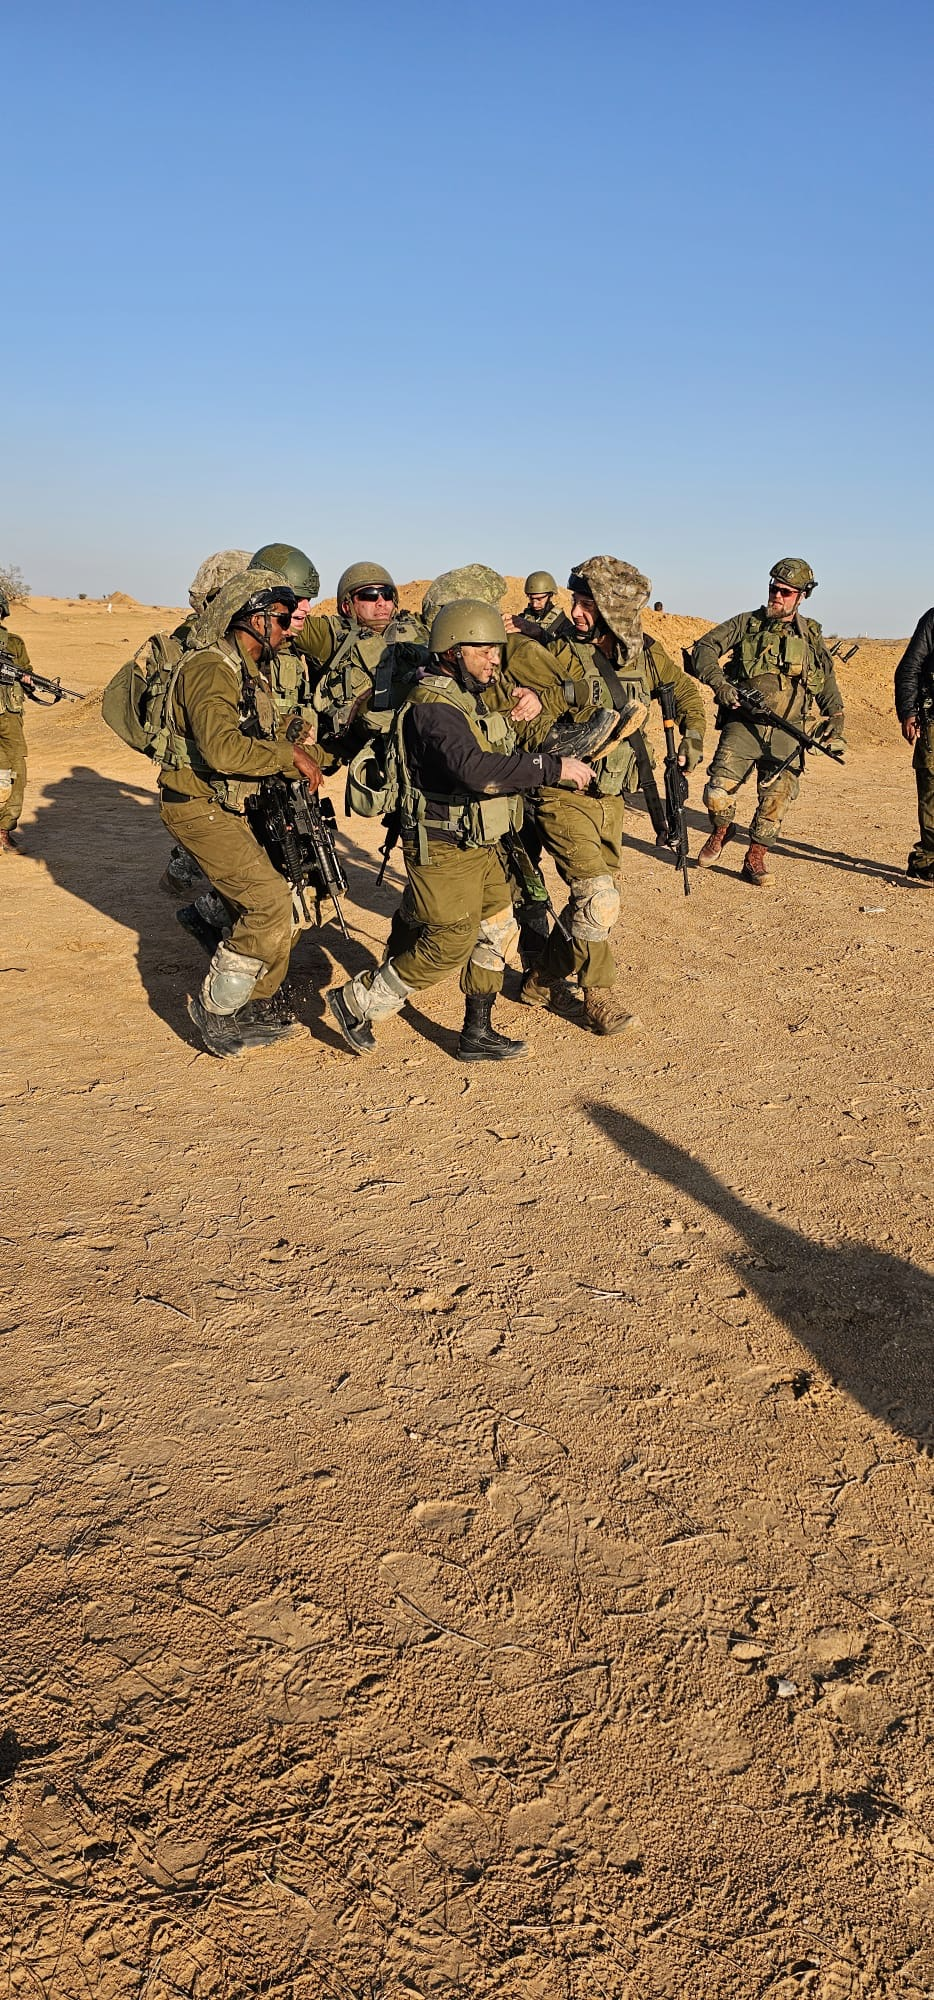
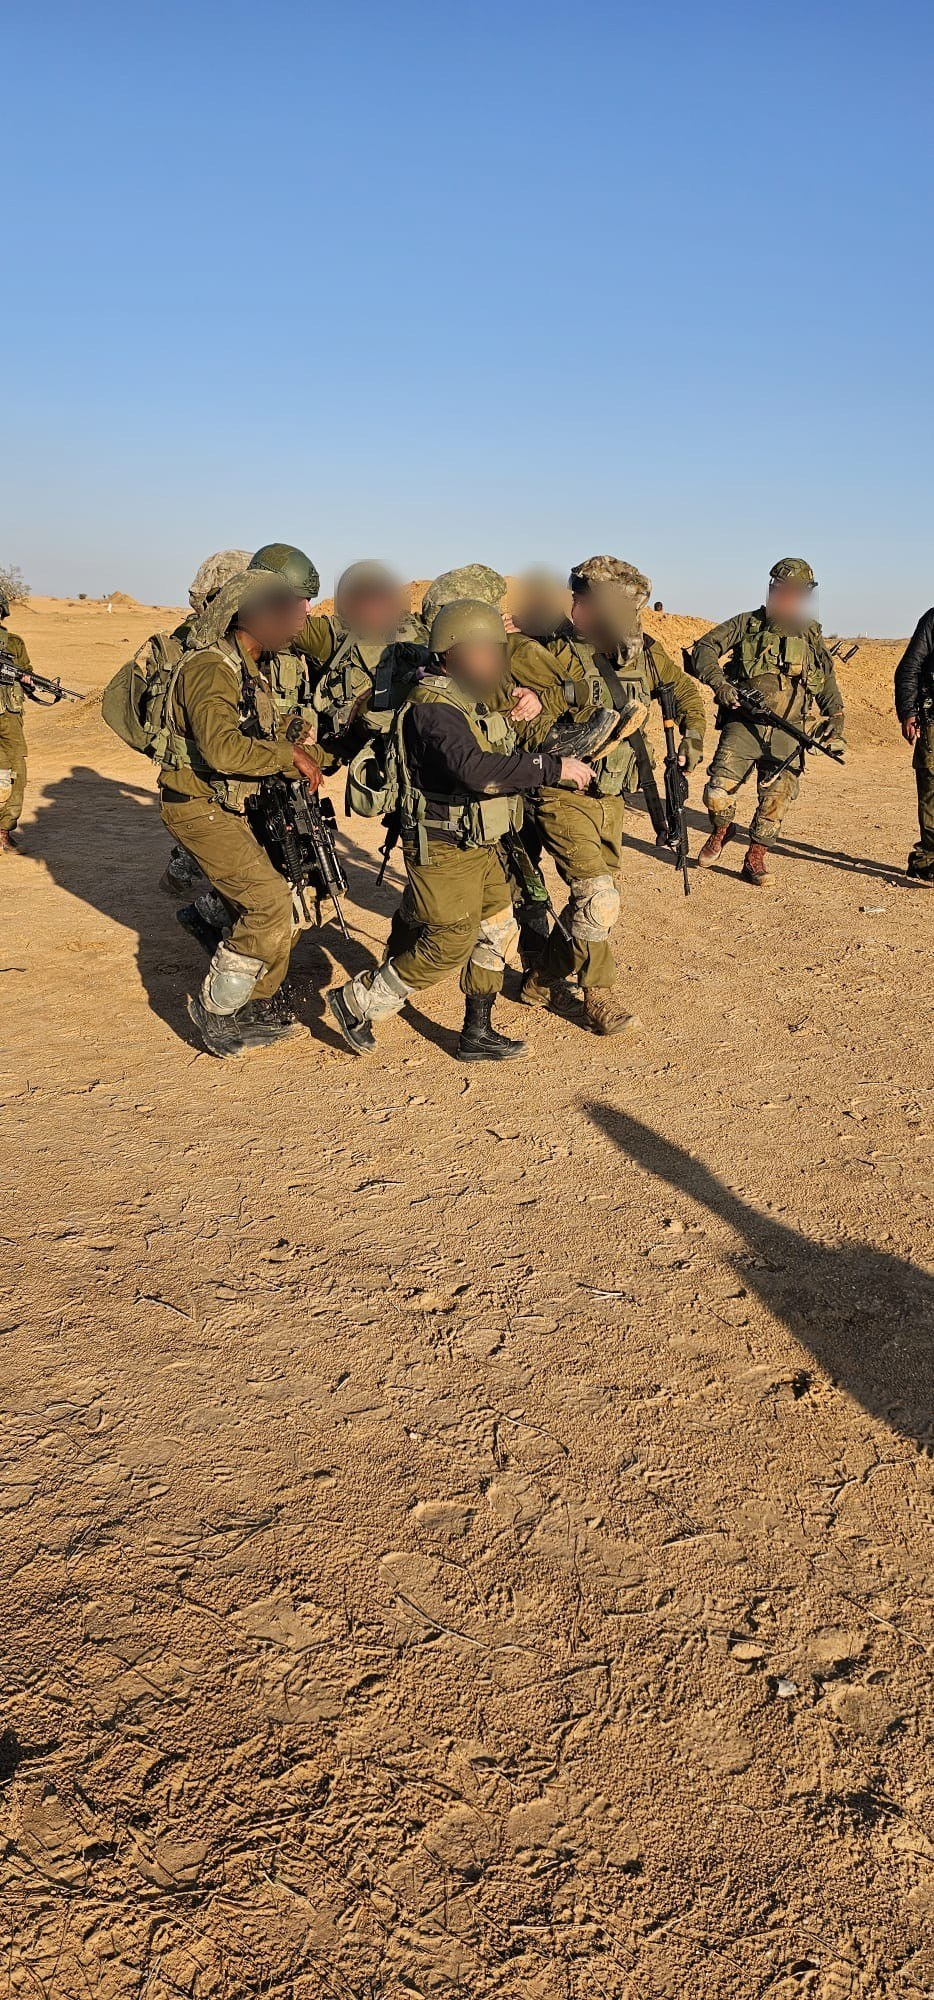
Blur soldiers' faces, use each photo once, add valley band
- Faces blurred (soft, feathered) in the hero photo and the new crowd photo; originals never committed
- ae00d74b hero file replaced with the blurred version (also the og:image)
- Hero uses the squad photo, About uses the crowd photo, footer uses a faceless valley panorama
- Remove duplicate crops and the gear/footer photo repeats

Claude-Session: https://claude.ai/code/session_0132FAEbQkSFtGSTPxd9kUNA

Changed region(s): [[0.4657, 0.279, 0.6831, 0.372], [0.2484, 0.279, 0.4347, 0.341], [0.8073, 0.279, 0.8694, 0.341]]

diff --git a/index.html b/index.html
@@ -64,7 +64,7 @@
                 <p class="panel p-dark reveal" data-he="הוקמנו בעקבות מסקנות השבעה באוקטובר." data-en="Founded on the lessons of October 7th.">הוקמנו בעקבות מסקנות השבעה באוקטובר.</p>
                 <p class="panel p-gold reveal" data-he="חי״ר מהגליל. זמינים בכל רגע." data-en="Infantry from the Galilee. Ready any moment.">חי״ר מהגליל. זמינים בכל רגע.</p>
                 <figure class="panel p-photo reveal">
-                    <img src="img/right.jpg" width="514" height="540" alt="לוחמי פלוגה ב׳ בשטח" loading="lazy">
+                    <img src="img/crowd.jpg" width="1200" height="577" alt="לוחמי פלוגה ב׳ ומשפחותיהם" loading="lazy">
                 </figure>
                 <p class="panel p-paper reveal" data-he="גרים כאן, ליד הגבול. מגדלים כאן ילדים וחקלאות מאז קום המדינה. לא מהמרכז." data-en="We live here, by the border, raising families and working the land since the State was founded. Not from the center.">גרים כאן, ליד הגבול. מגדלים כאן ילדים וחקלאות מאז קום המדינה. לא מהמרכז.</p>
                 <p class="panel p-olive reveal" data-he="להגן על העמק, הגליל ומדינת ישראל." data-en="Protect the Valley, the Galilee and Israel.">להגן על העמק, הגליל ומדינת ישראל.</p>
@@ -82,14 +82,9 @@
         <!-- Equipment requisition form: the live donation basket -->
         <section id="gear" class="gear">
             <div class="gear-head">
-                <div class="gear-intro">
                 <h2 class="sec-title" data-he="ציוד ללוחמים" data-en="Gear for the soldiers">ציוד ללוחמים</h2>
                 <p class="gear-lead" data-he="סמנו מה אתם רוצים לתרום, ושלחו לפלוגה הודעה אחת מוכנה." data-en="Tick what you would like to donate and send the company one ready-made message.">סמנו מה אתם רוצים לתרום, ושלחו לפלוגה הודעה אחת מוכנה.</p>
                 </div>
-                <figure class="gear-photo reveal">
-                    <img src="img/boots.jpg" width="579" height="260" alt="נעליים וברכיות של לוחמי הפלוגה" loading="lazy">
-                </figure>
-            </div>
 
             <div class="gear-body">
                 <form class="form" onsubmit="return false">
@@ -169,10 +164,11 @@
     </main>
 
     <!-- Footer -->
+    <figure class="valley">
+        <img src="img/valley.jpg" width="1600" height="220" alt="העמק והרי הצפון בשקיעה" loading="lazy">
+    </figure>
+
     <footer class="foot">
-        <figure class="foot-photo">
-            <img src="img/squad-close.jpg" width="560" height="560" alt="לוחמי פלוגה ב׳" loading="lazy">
-        </figure>
         <div class="foot-menu">
             <p class="foot-brand" data-he="פלוגה ב׳ • מגיני העמק" data-en="Company B • Valley Defenders">פלוגה ב׳ • מגיני העמק</p>
             <nav aria-label="Menu">

diff --git a/styles.css b/styles.css
@@ -324,24 +324,7 @@ a, button { touch-action: manipulation; }
     background: var(--paper);
 }
 
-.gear-head {
-    display: grid;
-    gap: 28px var(--m);
-    margin-block-end: 48px;
-}
-
-.gear-photo {
-    margin: 0;
-    aspect-ratio: 16 / 7;
-    overflow: hidden;
-    background: var(--olive-dark);
-}
-
-.gear-photo img { width: 100%; height: 100%; object-fit: cover; }
-
-@media (min-width: 900px) {
-    .gear-head { grid-template-columns: minmax(0, 1fr) minmax(0, 0.8fr); align-items: end; }
-}
+.gear-head { margin-block-end: 48px; }
 .gear-head .sec-title { margin-block-end: 16px; }
 .gear-lead { max-width: 52ch; text-wrap: balance; font-size: var(--step-lead); font-weight: 500; line-height: 1.4; }
 
@@ -595,8 +578,8 @@ body.basket-open { padding-bottom: 92px; }
     color: var(--paper);
 }
 
-.foot-photo { margin: 0; min-height: 50svh; overflow: hidden; }
-.foot-photo img { width: 100%; height: 100%; object-fit: cover; }
+.valley { margin: 0; background: var(--ink); }
+.valley img { width: 100%; height: clamp(150px, 15vw, 240px); object-fit: cover; }
 
 .foot-menu {
     display: flex;
@@ -649,8 +632,8 @@ body.basket-open { padding-bottom: 92px; }
 .share-toast.show { opacity: 1; }
 
 @media (min-width: 900px) {
-    .foot { grid-template-columns: 1fr 1fr; min-height: 80svh; }
-    .foot-photo { min-height: 0; }
+    .foot-menu { flex-direction: row; flex-wrap: wrap; align-items: flex-end; justify-content: space-between; }
+    .foot-menu nav { flex-direction: row; gap: 8px 40px; flex-wrap: wrap; }
 }
 
 /* ============================================

diff --git a/CLAUDE.md b/CLAUDE.md
@@ -9,7 +9,7 @@ The site was redesigned. Where this guide disagrees with the list below, the lis
 - **Design:** "loud and flat" poster. Heavy Rubik (self-hosted in `fonts/`), flat olive/gold/sand panels, square corners, one marquee band. Hero headline is `אנחנו הקו הקדמי`.
 - **Donation:** WhatsApp/phone only, to the company commander (רס״ן (מיל׳) איתי חיניץ, "המ״פ"). PayBox, Bit, bank transfer and the photo gallery were removed on purpose.
 - **Equipment form (`#gear`):** each priced row is a checkbox with a quantity stepper; `updateBasket()` builds one pre-filled WhatsApp message with the total. Without JS the form does nothing and the button sends the generic message.
-- **Images:** crops of the unit's own photo in `img/` (cut from `ae00d74b-...jpeg`). Add real photos there; no placeholder images.
+- **Images:** `img/squad-tall.jpg` (hero), `img/crowd.jpg` (about), `img/valley.jpg` (footer band). **Privacy rule: every face in every published photo is blurred (gently, feathered) before it is committed. Never commit an unblurred original.** `ae00d74b-...jpeg` is already the blurred version (it is also the og:image). Use each picture once; no placeholder images.
 - **Language:** `data-he`/`data-en` on every text node, `dir` swaps rtl/ltr, CSS uses logical properties (`inline-start`, `margin-inline-end`), so keep it that way.
 - **Tooling:** `.claude/skills/` holds Impeccable and Taste Skill. `node .claude/skills/taste-skill/scripts/lint.mjs index.html styles.css` and `inspect.mjs` (needs `CHROME_PATH`, `--no-sandbox` as root) check the page.
 - **Open items:** receipt / non-profit details are not on the page yet; no video.
